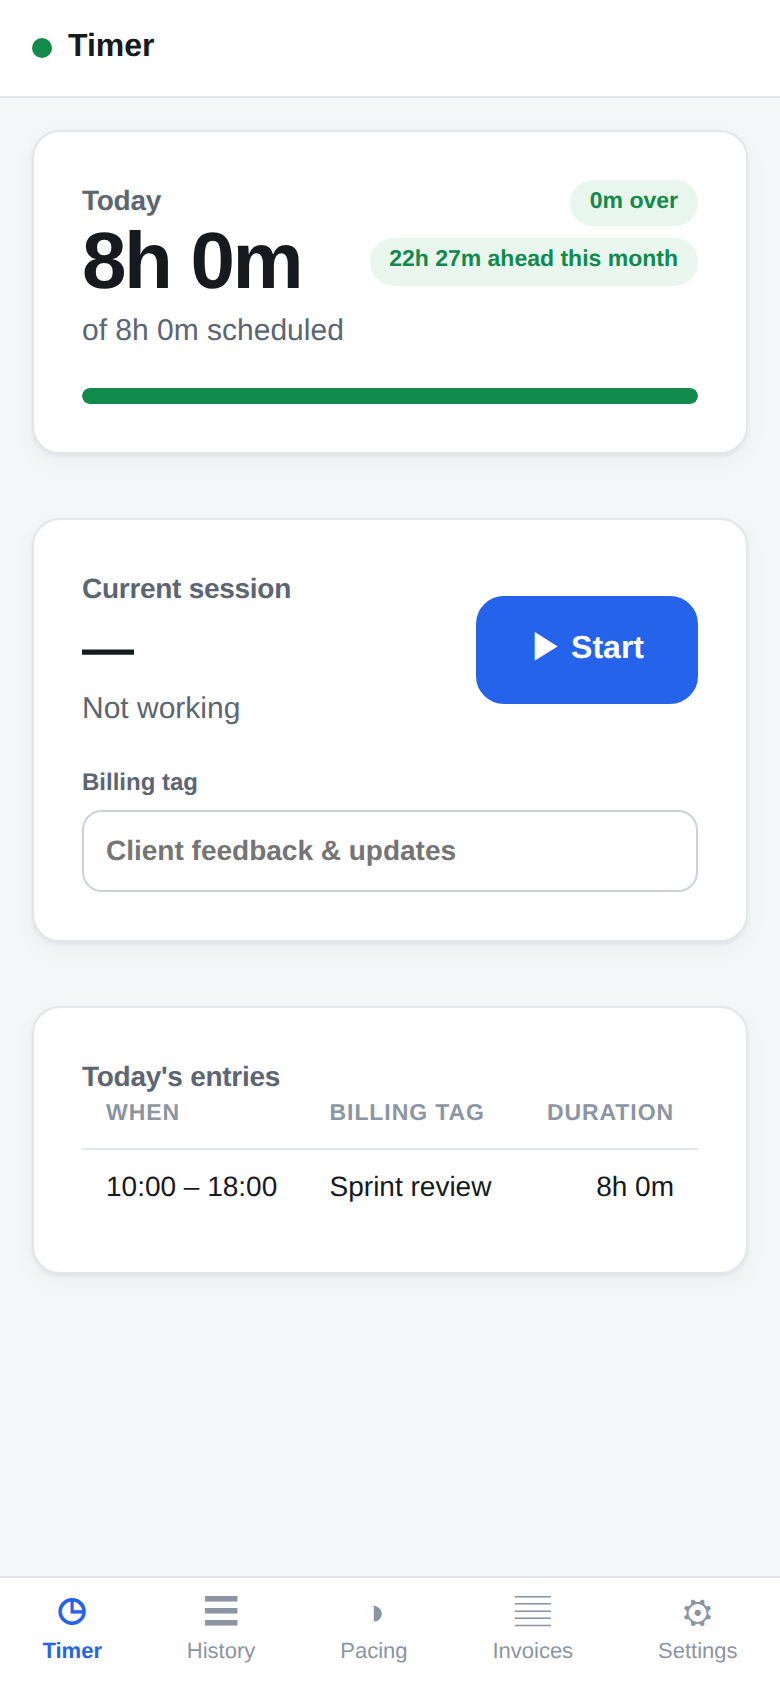
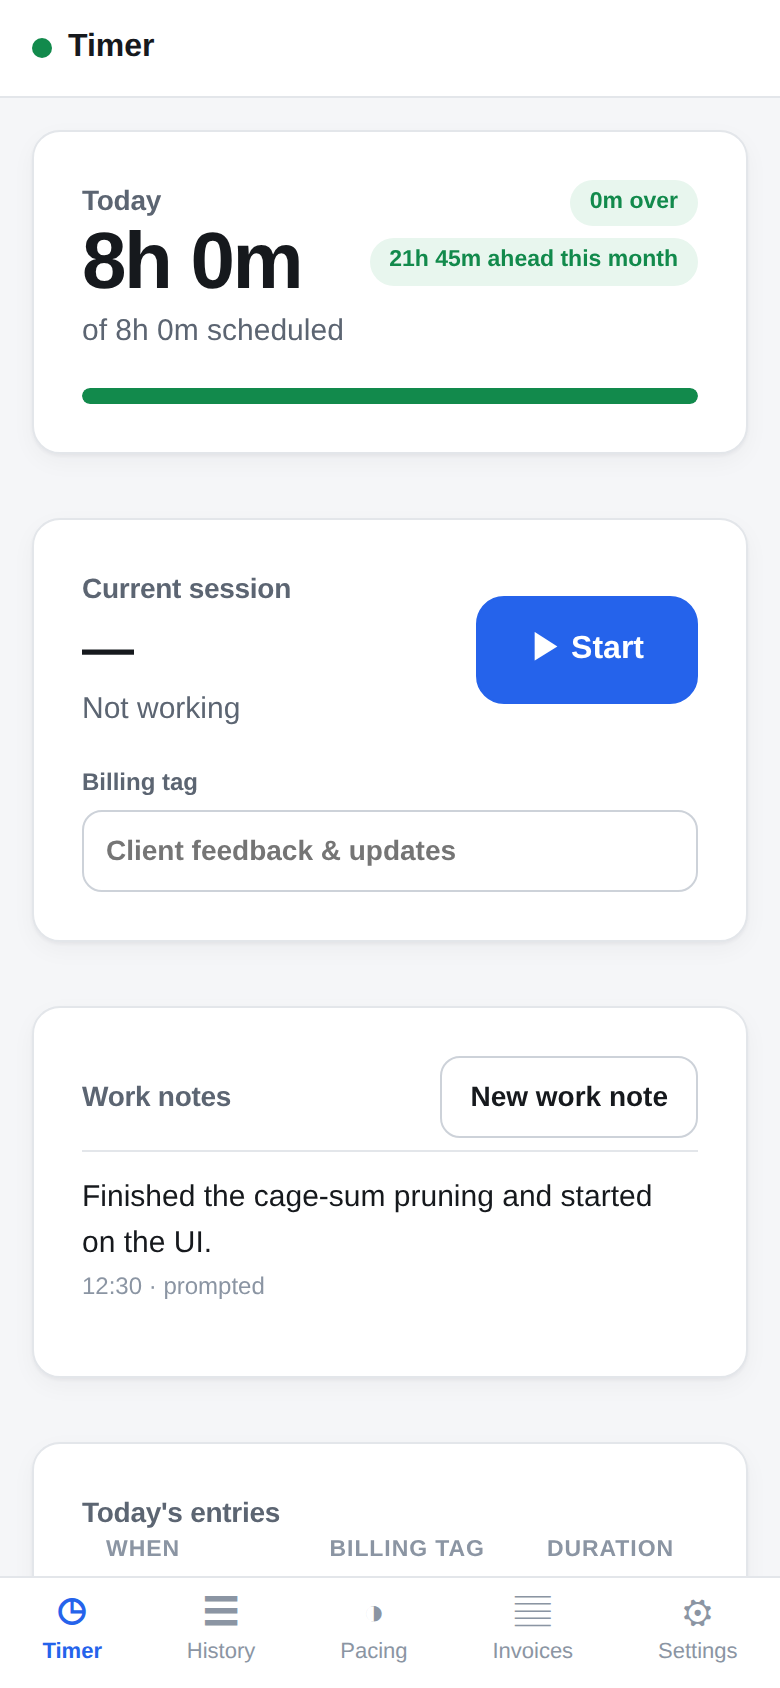
Refresh the screenshots, and write down what the desktop taught
The captures were taken before work notes, the audio settings and the error
reporter existed. Regenerated the same way -- real server, real browser, real
handshake, both shells -- and the README now covers the desktop window and the
four `deno desktop` behaviours that cost the most to find, each of which fails
silently rather than loudly.

It also states plainly what is not verified: the desktop window reaching a
server, because this container's WebKitGTK has no libnice and no gstwebrtc.

Claude-Session: https://claude.ai/code/session_01Vc5bWMgswgmJv7SxrebSPi

diff --git a/README.md b/README.md
@@ -22,6 +22,7 @@ deno task serve         # prints the address a frontend needs
 ```sh
 deno task web           # the frontend, on http://127.0.0.1:5273
 deno task web:build     # or a static bundle in web/dist
+deno task desktop       # or the same frontend in a desktop window
 ```
 
 The server prints something like `192.168.1.5:41108:uEiA…`. Paste it into the frontend's first
@@ -76,6 +77,33 @@ by getting narrower. What they share is everything below them: the same screens,
 same client. The viewport picks, not the runtime, so a narrow desktop window gets the phone layout —
 the constraint being solved is how much room there is.
 
+## The desktop window
+
+`deno task desktop` runs the same bundle in a `Deno.BrowserWindow`. What it adds is a window that
+stays on top (**Settings → This window**) and a device key the operating system protects: the shell
+generates it into `device-key.json` at `0600`, re-imports it non-extractable, and the page asks for
+signatures rather than holding anything. That is a stronger reading of "the private key never
+leaves the device" than a browser can offer, where the key at least lives in the tab's storage.
+
+Getting there turned up four things about `deno desktop` worth writing down, because none of them
+fails loudly:
+
+- **An HTTP listener inside the app accepts nothing.** `Deno.serve` calls `onListen` and every
+  connection is refused — inside the process and out, main thread and worker. So the bridge is
+  `BrowserWindow.bind`, not a loopback fetch.
+- **A permission prompt hangs rather than fails**, because a packaged app has no terminal to answer
+  it. The build grants `read`, `write` and `env` explicitly — and not `net`, which is what makes
+  "the server is never told about window state" a property of the runtime rather than of care.
+- **A `file://` page cannot load an ES module by `src`.** `web/inline.mjs` folds the bundle into
+  one `desktop.html`; an inline module has nothing to fetch. The Pages build is untouched.
+- **A `file://` origin has no dependable storage**, which is why the shell owns the key and the
+  device-local settings.
+
+One thing is unverified: **the desktop window reaching a server**. The shell runs, writes its files,
+opens the window and loads the app, but this development container's WebKitGTK has no `libnice` and
+no `gstwebrtc`, so a WebRTC dial cannot complete in it at all. The same bundle over the same
+transport is exercised end to end in Chromium by `deno task shots`.
+
 ## Why there is a package.json
 
 Deno cannot install `@kpstreams/server` itself. Its QUIC backend lists
@@ -99,3 +127,7 @@ the signing or either shell is broken, there are no pictures.
 
 <img src="docs/pacing-desktop.png" alt="The pacing screen, showing the projection and the terms that add up to it" width="420">
 <img src="docs/invoices-desktop.png" alt="An invoice draft, with the bonus in its own table above the work table" width="420">
+
+The invoice PDF is rendered on the server and follows the supplied format closely — see
+[`docs/invoice-sample.pdf`](docs/invoice-sample.pdf), generated from the fixture by
+`deno run -A --node-modules-dir=manual tools/invoice-pdf.ts ./data 2026-08 out.pdf`.
